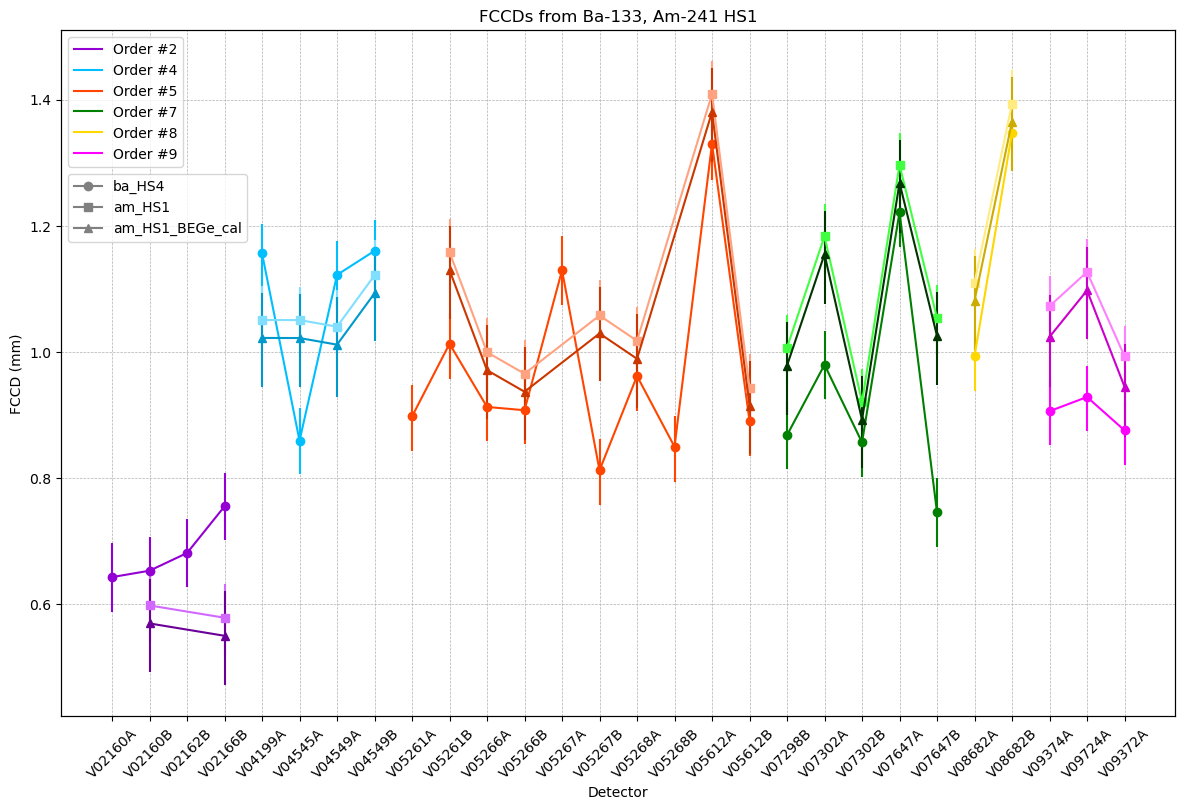
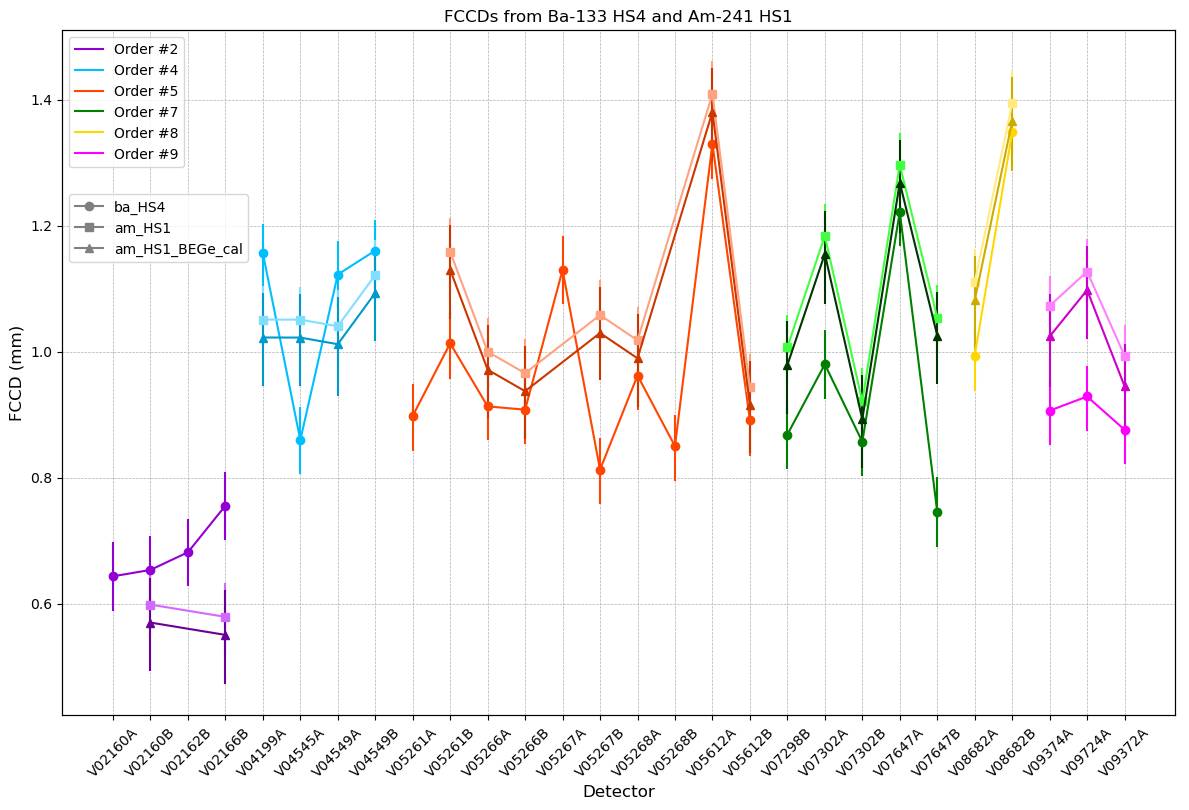
[new] plot for fccd Ba and Am_HS1 with BEGe cal only

diff --git a/Compare_FCCDs_Am_Ba_createjson.py b/Compare_FCCDs_Am_Ba_createjson.py
@@ -37,6 +37,8 @@ def main():
     fig, ax = plt.subplots(figsize=(12,8))
     colors_orders = {2:'darkviolet', 4:'deepskyblue', 5:'orangered', 7:'green', 8:'gold', 9:'magenta'}
     markers_sources = {"ba_HS4": "o", "am_HS1":"s", "am_HS1_BEGe_cal":"^"}
+    #markers_sources = {"Ba-133": "o", "Am-241":"^"} #abi plot
+
 
     smear = "g"
     TL_model = "notl"
@@ -74,7 +76,7 @@ def main():
         detectors_am1_BEGe = []
 
         for detector in detectors:
-            #det[detector] = detector
+
             det[detector]={}
 
             detectors_all.append(detector)
@@ -174,9 +176,14 @@ def main():
                 json.dump(det, f, indent=4)
 
         cc = colors_orders[order]
+
         ax.errorbar(detectors_ba,FCCDs_ba, yerr = [FCCD_err_lows_ba, FCCD_err_ups_ba], marker = markers_sources["ba_HS4"], color=cc, linestyle = '-')
         ax.errorbar(detectors_am1,FCCDs_am1, yerr = [FCCD_err_lows_am1, FCCD_err_ups_am1], marker = markers_sources["am_HS1"], color=lighten_color(cc,0.5) ,linestyle = '-')
         ax.errorbar(detectors_am1_BEGe,FCCDs_am1_BEGe, yerr = [FCCD_err_lows_am1_BEGe, FCCD_err_ups_am1_BEGe], marker = markers_sources["am_HS1_BEGe_cal"], color=lighten_color(cc,1.2) ,linestyle = '-')
+
+        # #abi plot: _BEGe_corrections.png
+        # ax.errorbar(detectors_ba,FCCDs_ba, yerr = [FCCD_err_lows_ba, FCCD_err_ups_ba], marker = markers_sources["Ba-133"], color=cc, linestyle = '-')
+        # ax.errorbar(detectors_am1_BEGe,FCCDs_am1_BEGe, yerr = [FCCD_err_lows_am1_BEGe, FCCD_err_ups_am1_BEGe], marker = markers_sources["Am-241"], color=lighten_color(cc,1.2) ,linestyle = '-')
 
 
     for order in colors_orders:
@@ -189,16 +196,17 @@ def main():
         ax2.plot(np.NaN, np.NaN, marker=marker,c='grey',label=source)
     ax2.get_yaxis().set_visible(False)
 
-    ax.legend(loc='upper left', bbox_to_anchor=(0, 1))
-    ax2.legend(loc='upper left', bbox_to_anchor=(0, 0.8))
+    ax.legend(loc='upper left', bbox_to_anchor=(0, 1), fontsize=11)
+    ax2.legend(loc='upper left', bbox_to_anchor=(0, 0.77), fontsize=11)
 
     ax.tick_params(axis='x', labelrotation=45)
-    ax.set_xlabel('Detector')
-    ax.set_ylabel('FCCD (mm)')
+    ax.set_xlabel('Detector', fontsize=13)
+    ax.set_ylabel('FCCD (mm)', fontsize=13)
     ax.grid(linestyle='dashed', linewidth=0.5)
     plt.tight_layout()
-    ax.set_title("FCCDs from Ba-133, Am-241 HS1") #, Am-241 HS6")
+    ax.set_title("FCCDs from Ba-133 HS4 and Am-241 HS1", fontsize=14) #, Am-241 HS6")
     plt.savefig(CodePath+"/FCCDs_Ba133_Am241_both_corrections.png", bbox_inches='tight')
+    #plt.savefig(CodePath+"/FCCDs_Ba133_Am241_BEGe_corrections.png", bbox_inches='tight') #abi plot
     plt.show()
 
 
